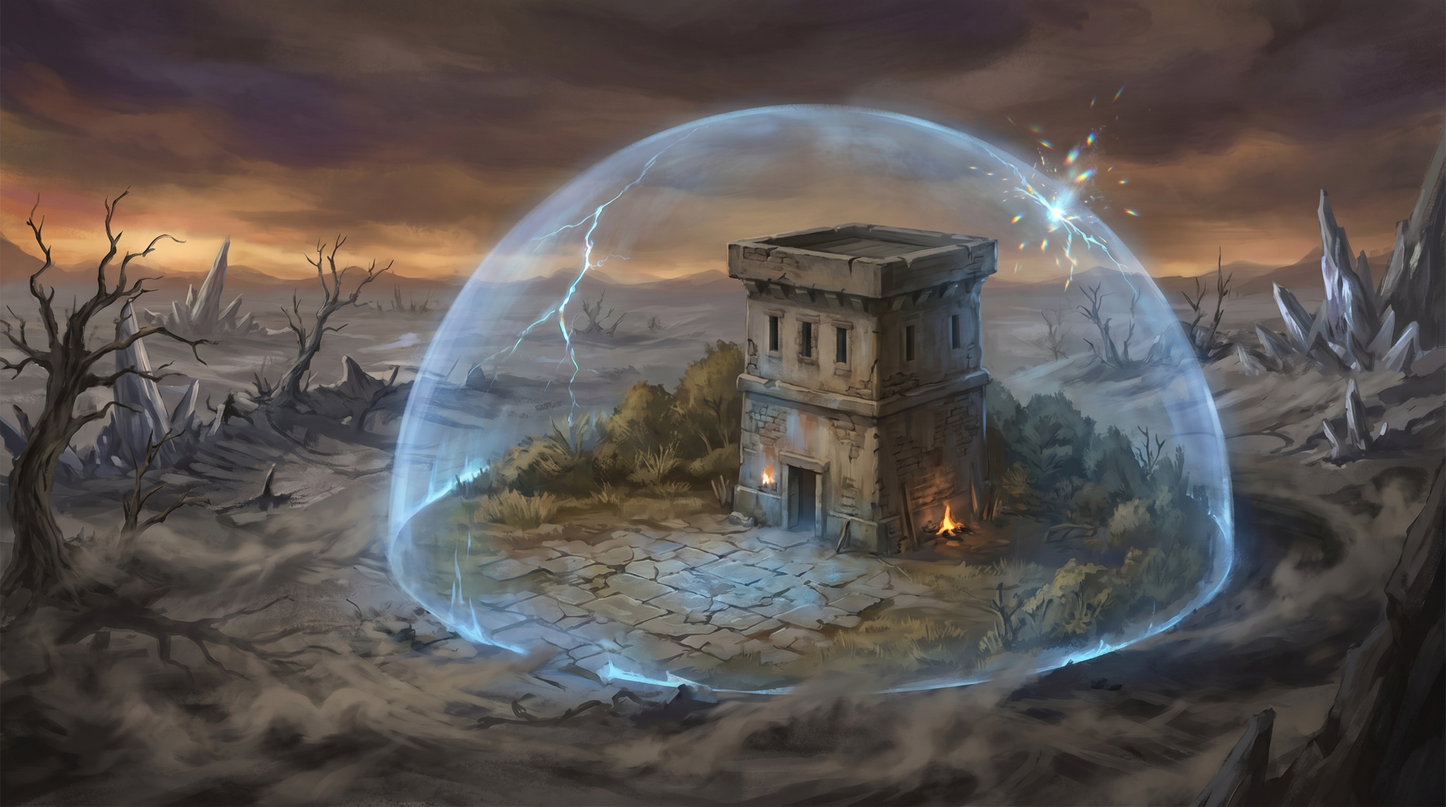
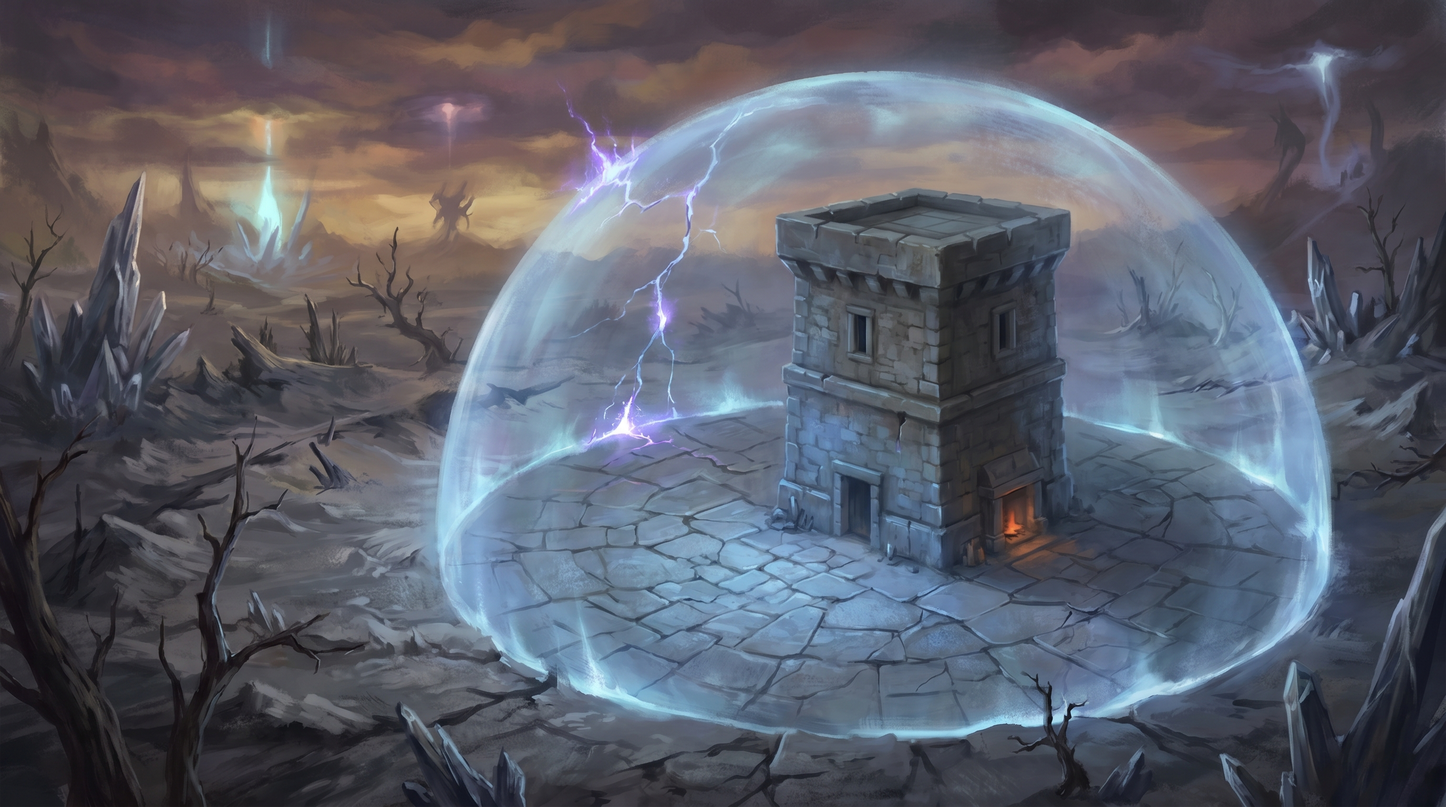
fixed inconsistencies

diff --git a/campaigns/the-shattered-beams/art/16_thinny-breach.md b/campaigns/the-shattered-beams/art/16_thinny-breach.md
@@ -4,6 +4,9 @@ aspect_ratio: "16:9"
 resolution: 2K
 temperature: 1.0
 instructions: campaign-style.md
+references:
+    - images/the-waystation.jpg
+    - images/waystation-interior.jpg
 ---
 
 A cracked stone courtyard at night, forty feet square, surrounded by a 
@@ -11,10 +14,11 @@ shimmering hemisphere of pale blue energy -- the Waystation's barrier. On
 the north wall, a ten-foot-wide crack runs through the barrier like a 
 fracture in ice, its edges rippling and distorting. Through the crack, the 
 Ashlands bleed in: colors run like wet paint at the edges, the ground 
-beneath the breach writhes with wrongness. Two aberrant shapes have pushed 
-through -- twisted geometry made flesh, eyes in impossible places, mouths 
-that open in every direction. A hunched figure with a single burning eye 
-crouches near rubble, watching with terrible intelligence. The contrast 
+beneath the breach writhes with wrongness. A single aberrant mass has 
+pushed through -- twisted geometry made flesh, eyes in impossible places, 
+mouths that open in every direction, oozing across the flagstones. Two 
+hunched figures flank it near the rubble piles, each with a single 
+burning eye, watching the courtyard with terrible intelligence. The contrast 
 is stark: inside the barrier, the courtyard is stone and firelight and 
 reality. At the breach, reality unravels. The pale blue barrier light 
 flickers and stutters around the crack, fighting to hold. The squat 

diff --git a/campaigns/the-shattered-beams/art/08_the-waystation.md b/campaigns/the-shattered-beams/art/08_the-waystation.md
@@ -4,6 +4,8 @@ aspect_ratio: "16:9"
 resolution: 2K
 temperature: 0.9
 instructions: campaign-style.md
+references:
+    - images/the-ashlands.jpg
 ---
 
 A crumbling stone watchtower standing alone in a vast, blighted wasteland, 
